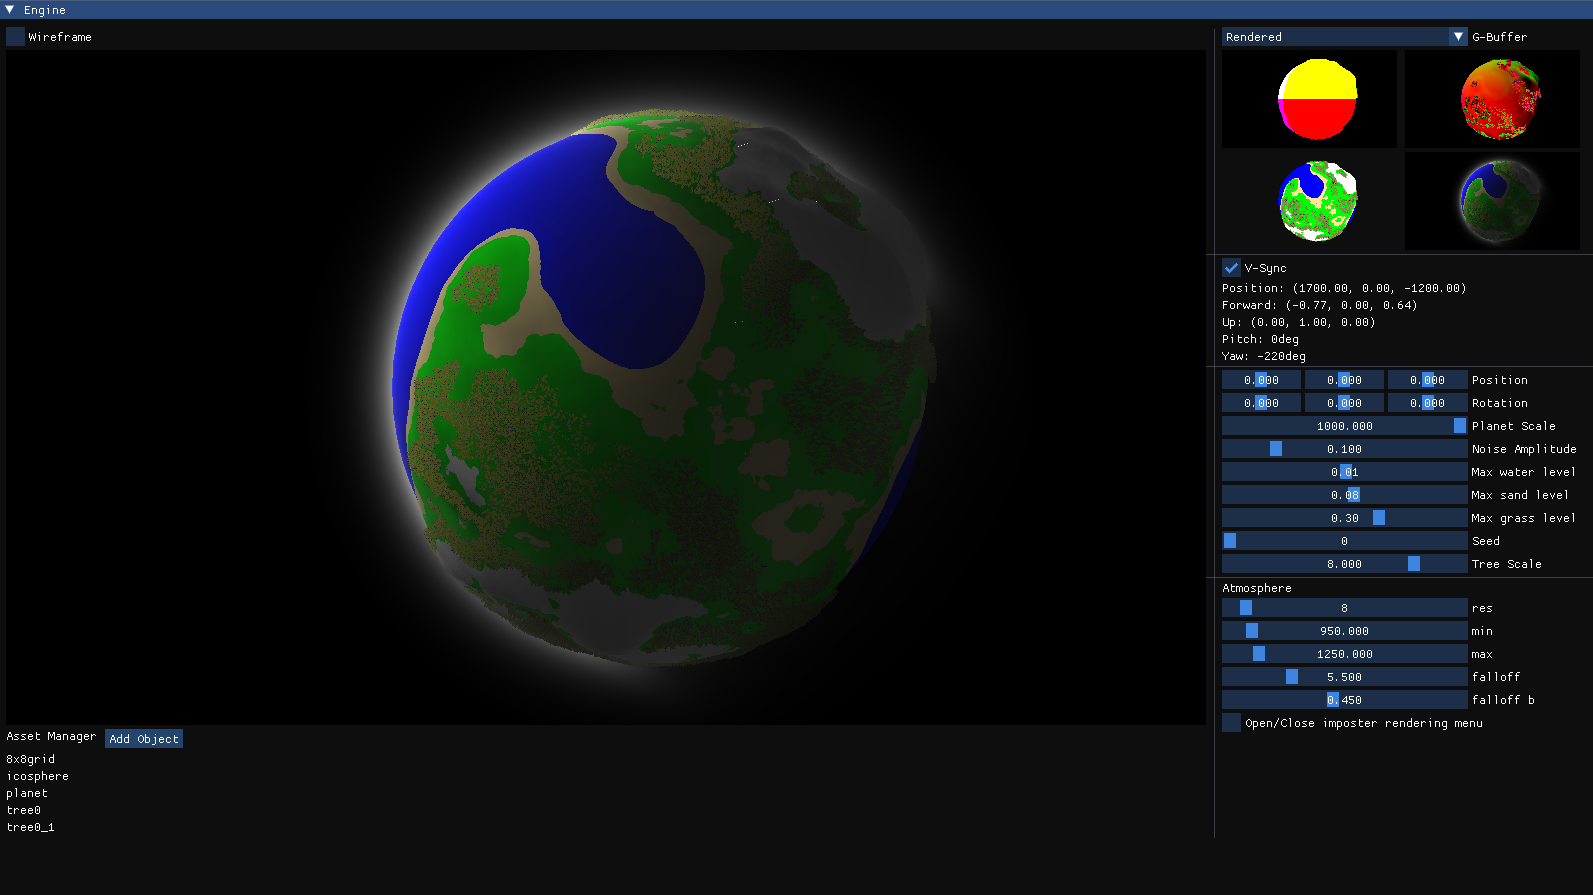
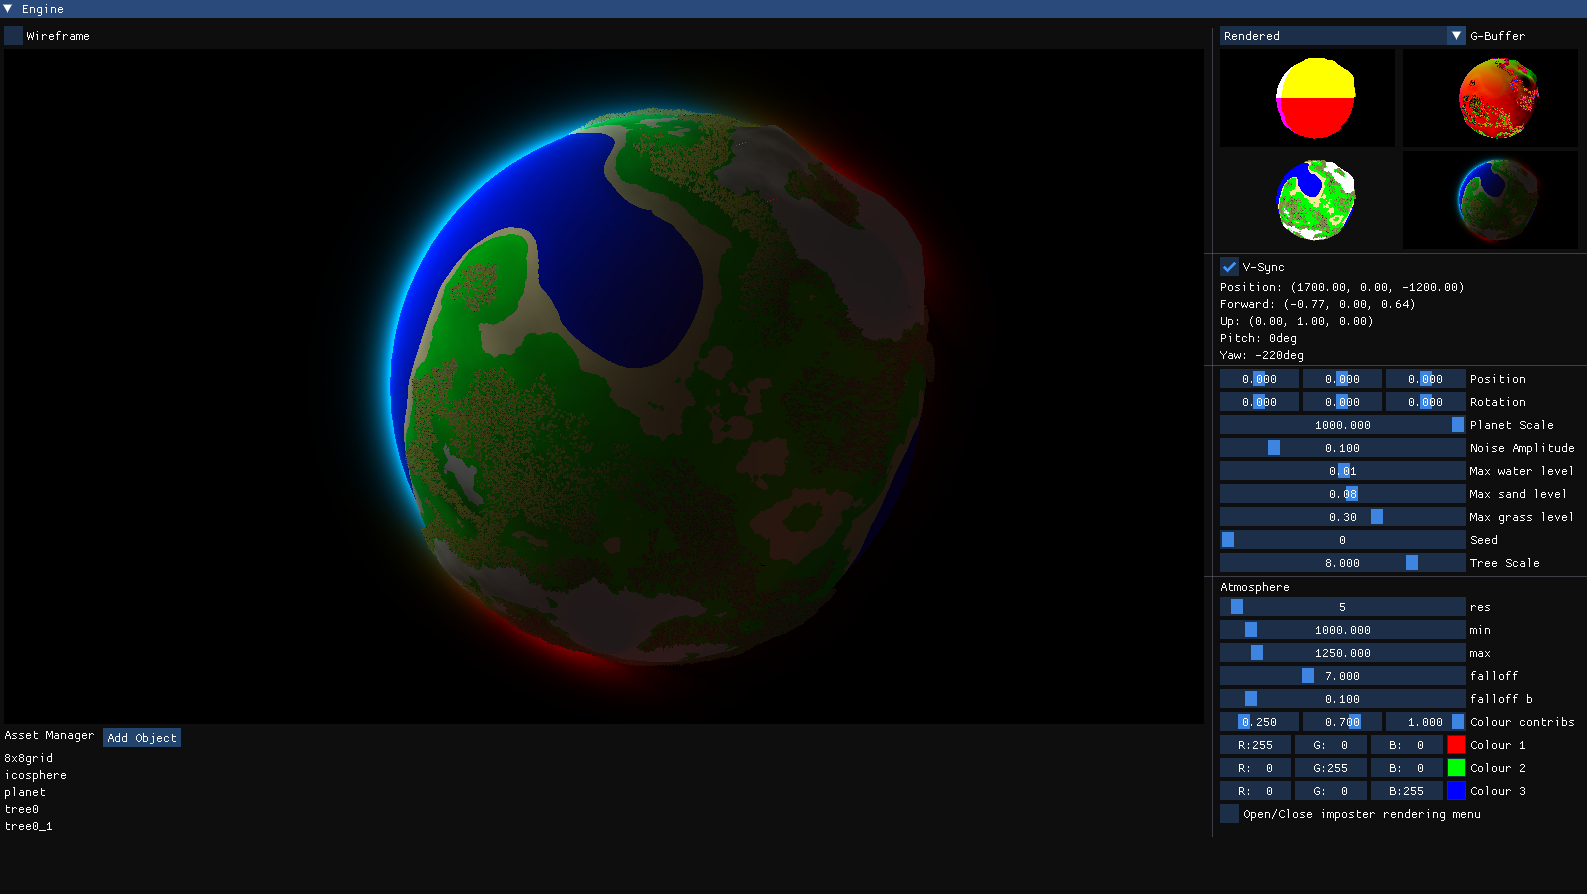
Colours in atmosphere (in accurate but dont care, its fast)

diff --git a/src/atmosphereRenderer.cpp b/src/atmosphereRenderer.cpp
@@ -5,11 +5,15 @@ Atmosphere::Atmosphere(float width, float height, GLuint gFragPos, GLuint gRende
 	this->height = height;
 	this->gRendered = gRendered;
 	this->gFragPos = gFragPos;
-	this->u_Steps = 8;
-	this->u_MinAtmsDistance = 950.0f;
+	this->u_Steps = 5;
+	this->u_MinAtmsDistance = 1000.0f;
 	this->u_MaxAtmsDistance = 1250.0f;
-	this->u_AtmsExpFalloff = 5.5f;
-	this->u_FalloffB = 0.45f;
+	this->u_AtmsExpFalloff = 7.0f;
+	this->u_FalloffB = 0.1f;
+	this->u_ColourContribs = glm::vec3(0.25f, 0.7f, 1.0f);
+	this->u_Colour1 = glm::vec3(1.0f, 0.0f, 0.0f);
+	this->u_Colour2 = glm::vec3(0.0f, 1.0f, 0.0f);
+	this->u_Colour3 = glm::vec3(0.0f, 0.0f, 1.0f);
 
 	this->shader = new Shader("shaders/atmosphere.vert", "shaders/atmosphere.frag", "Atmosphere");
 	SetupQuad();
@@ -25,6 +29,10 @@ Atmosphere::Atmosphere(float width, float height, GLuint gFragPos, GLuint gRende
 	glUniform1f(GetUniformLocation(shader->shaderProgram, "u_MaxAtmsDistance"), u_MaxAtmsDistance);
 	glUniform1f(GetUniformLocation(shader->shaderProgram, "u_AtmsExpFalloff"),  u_AtmsExpFalloff);
 	glUniform1f(GetUniformLocation(shader->shaderProgram, "u_FalloffB"),        u_FalloffB);
+	glUniform3f(GetUniformLocation(shader->shaderProgram, "u_ColourContribs"),  u_ColourContribs.x, u_ColourContribs.y, u_ColourContribs.z);
+	glUniform3f(GetUniformLocation(shader->shaderProgram, "u_Colour1"),         u_Colour1.x, u_Colour1.y, u_Colour1.z);
+	glUniform3f(GetUniformLocation(shader->shaderProgram, "u_Colour2"),         u_Colour2.x, u_Colour2.y, u_Colour2.z);
+	glUniform3f(GetUniformLocation(shader->shaderProgram, "u_Colour3"),         u_Colour3.x, u_Colour3.y, u_Colour3.z);
 }
 
 void Atmosphere::SetupQuad() {
@@ -105,6 +113,22 @@ void Atmosphere::DebugDraw() {
 
 	if (ImGui::SliderFloat("falloff b", &u_FalloffB, 0.0, 1.0)) {
 		shader->use(); glUniform1f(GetUniformLocation(shader->shaderProgram, "u_FalloffB"), u_FalloffB);
+	}
+
+	if (ImGui::SliderFloat3("Colour contribs", &u_ColourContribs.x, 0.0, 1.0)) {
+		shader->use(); glUniform3f(GetUniformLocation(shader->shaderProgram, "u_ColourContribs"), u_ColourContribs.x, u_ColourContribs.y, u_ColourContribs.z);
+	}
+
+	if (ImGui::ColorEdit3("Colour 1", &u_Colour1.x)) {
+		shader->use(); glUniform3f(GetUniformLocation(shader->shaderProgram, "u_Colour1"), u_Colour1.x, u_Colour1.y, u_Colour1.z);
+	}
+
+	if (ImGui::ColorEdit3("Colour 2", &u_Colour2.x)) {
+		shader->use(); glUniform3f(GetUniformLocation(shader->shaderProgram, "u_Colour2"), u_Colour2.x, u_Colour2.y, u_Colour2.z);
+	}
+
+	if (ImGui::ColorEdit3("Colour 3", &u_Colour3.x)) {
+		shader->use(); glUniform3f(GetUniformLocation(shader->shaderProgram, "u_Colour3"), u_Colour3.x, u_Colour3.y, u_Colour3.z);
 	}
 }
 

diff --git a/src/atmosphereRenderer.h b/src/atmosphereRenderer.h
@@ -5,7 +5,7 @@
 #include <imgui.h>
 #include <imgui_impl_glfw.h>
 #include <imgui_impl_opengl3.h>
-
+#include <glm/common.hpp>
 #include "shader.h"
 
 class Atmosphere {
@@ -28,7 +28,9 @@ private:
 
 	int u_Steps;
 	float u_MinAtmsDistance, u_MaxAtmsDistance, u_AtmsExpFalloff, u_FalloffB;
-	
+	glm::vec3 u_ColourContribs;
+	glm::vec3 u_Colour1, u_Colour2, u_Colour3;
+
 	GLuint quadVAO, quadVBO;
 	float width, height;
 };
